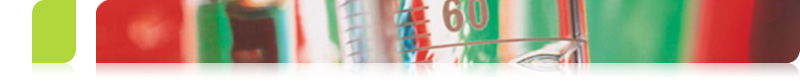
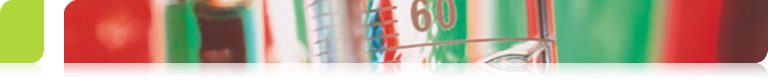
masters ok
git-svn-id: https://devel.upcnet.es/svn/genwebupc/trunk/upc.genwebupctheme@309 6deaf63b-a510-49cf-aad4-8c651776ecce

diff --git a/upc/genwebupctheme/skins/upc_genwebupctheme_styles/genweb-base.css b/upc/genwebupctheme/skins/upc_genwebupctheme_styles/genweb-base.css
@@ -294,10 +294,10 @@ h1, h2 {
 	
 /* CAPCALERA COMUNS */
 .barraCerca{
-    margin: 4px 0px 0px 5px;
+    margin: 7px 3px 0px 5px;
     text-align: right;
     float:none;
-    margin-top: 7px;}
+}
 .barraCerca img {
     vertical-align: baseline;}
 .go {
@@ -1669,6 +1669,9 @@ margin:0 0 0.5em 0.5em;
 /*revisio documents*/
 #diff-table {margin-top:10px !important;}
 
+/*revisio contenidor noticies i agenda*/
+#contenidor{ margin-top:20px;}
+.agendaDalt{ margin-top:20px;}
 
 /*contacte*/
 div.contacte {padding:10px !important; margin-bottom:10px;}
@@ -1678,4 +1681,4 @@ div.contacte div.contacteSpan {float:left; width:70px; text-align:right; margin-
 div.contacte div, div.contacte h5 {padding-bottom:5px;}
 iframe {width:908px;}
 div span.contacteSpan {display:block;}
-form fieldset {margin-top:0px !important; padding-top:0px !important;}
+/*form fieldset {margin-top:0px !important; padding-top:0px !important;}*/

diff --git a/upc/genwebupctheme/skins/upc_genwebupctheme_styles/masters.css b/upc/genwebupctheme/skins/upc_genwebupctheme_styles/masters.css
@@ -1,7 +1,10 @@
 .logo_m{
-  float:left;
-  padding-top:13px;
-  padding-left:12px;
+float:left;
+margin:25px 0 0 25px;
+min-width:160px;
+}
+.logo_m img {
+float:left;
 }
 .banerMasters{
 float:right;
@@ -9,7 +12,7 @@ padding-top:13px;
 }
 .titolWeb_m{
 text-align:left;
-margin-left:260px;
+margin-left:0px;
 }
 .cursMaster{
 font-family:Arial, Helvetica, Verdana, sans-serif;
@@ -17,7 +20,7 @@ font-size:16px;
 color:#007dcb;
 }
 .imatgeCapcalera_m{
-padding-right:158px;
+padding-right:180px;
 width:958px;
 height:85px;
 background: url(../img/custom/imatge.jpg) no-repeat top right;/*------ imatge del custom /!\ ----*/
@@ -35,10 +38,12 @@ float:left;
 font-size:0.9em;
 }
 .barraBranca_m{ 
-    padding: 46px 5px 0px;
+    width:175px;
+    padding: 51px 5px 0px;
     float:left;
     font-weight:bold;
     font-size:1.1em;
+    text-align:right;
     color:#B0D73C; /*específic1*/
 }
 .liniaPrincipal_m{

diff --git a/upc/genwebupctheme/skins/upc_genwebupctheme_styles/recerca.css b/upc/genwebupctheme/skins/upc_genwebupctheme_styles/recerca.css
@@ -5,8 +5,9 @@
 
 .logoNeutre2 { 
   float:left;
-  padding-top:25px;
-  padding-left:12px;
+  padding-top:36px;
+  padding-left:0px;
+  padding-right:25px;
 }
 
 .titolWebNeutre2 {
@@ -36,10 +37,10 @@ bodyNeutre2{
 }
 
 .imatgeCapcaleraNeutre2{ 
-  margin-top:-96px;
-  width:958px;
+  margin-top:0px;
   height:39px;
   text-align:right;
+  padding-left:250px;
 }
 
 .barraIdiomesNeutre2{

diff --git a/upc/genwebupctheme/skins/upc_genwebupctheme_styles/unitats.css b/upc/genwebupctheme/skins/upc_genwebupctheme_styles/unitats.css
@@ -16,7 +16,7 @@ text-align:center;
 margin:0px 180px 0px 180px;
 }
 .imatgeCapcaleraUnitat{
-background: transparent url(ImatgeUnitat.jpg) no-repeat scroll center top width:706px;
+background: transparent url(imatgeUnitat.jpg) no-repeat scroll center top width:706px;
 min-height:129px;
 background: no-repeat top center;
 margin:0px 126px 0px 126px;
